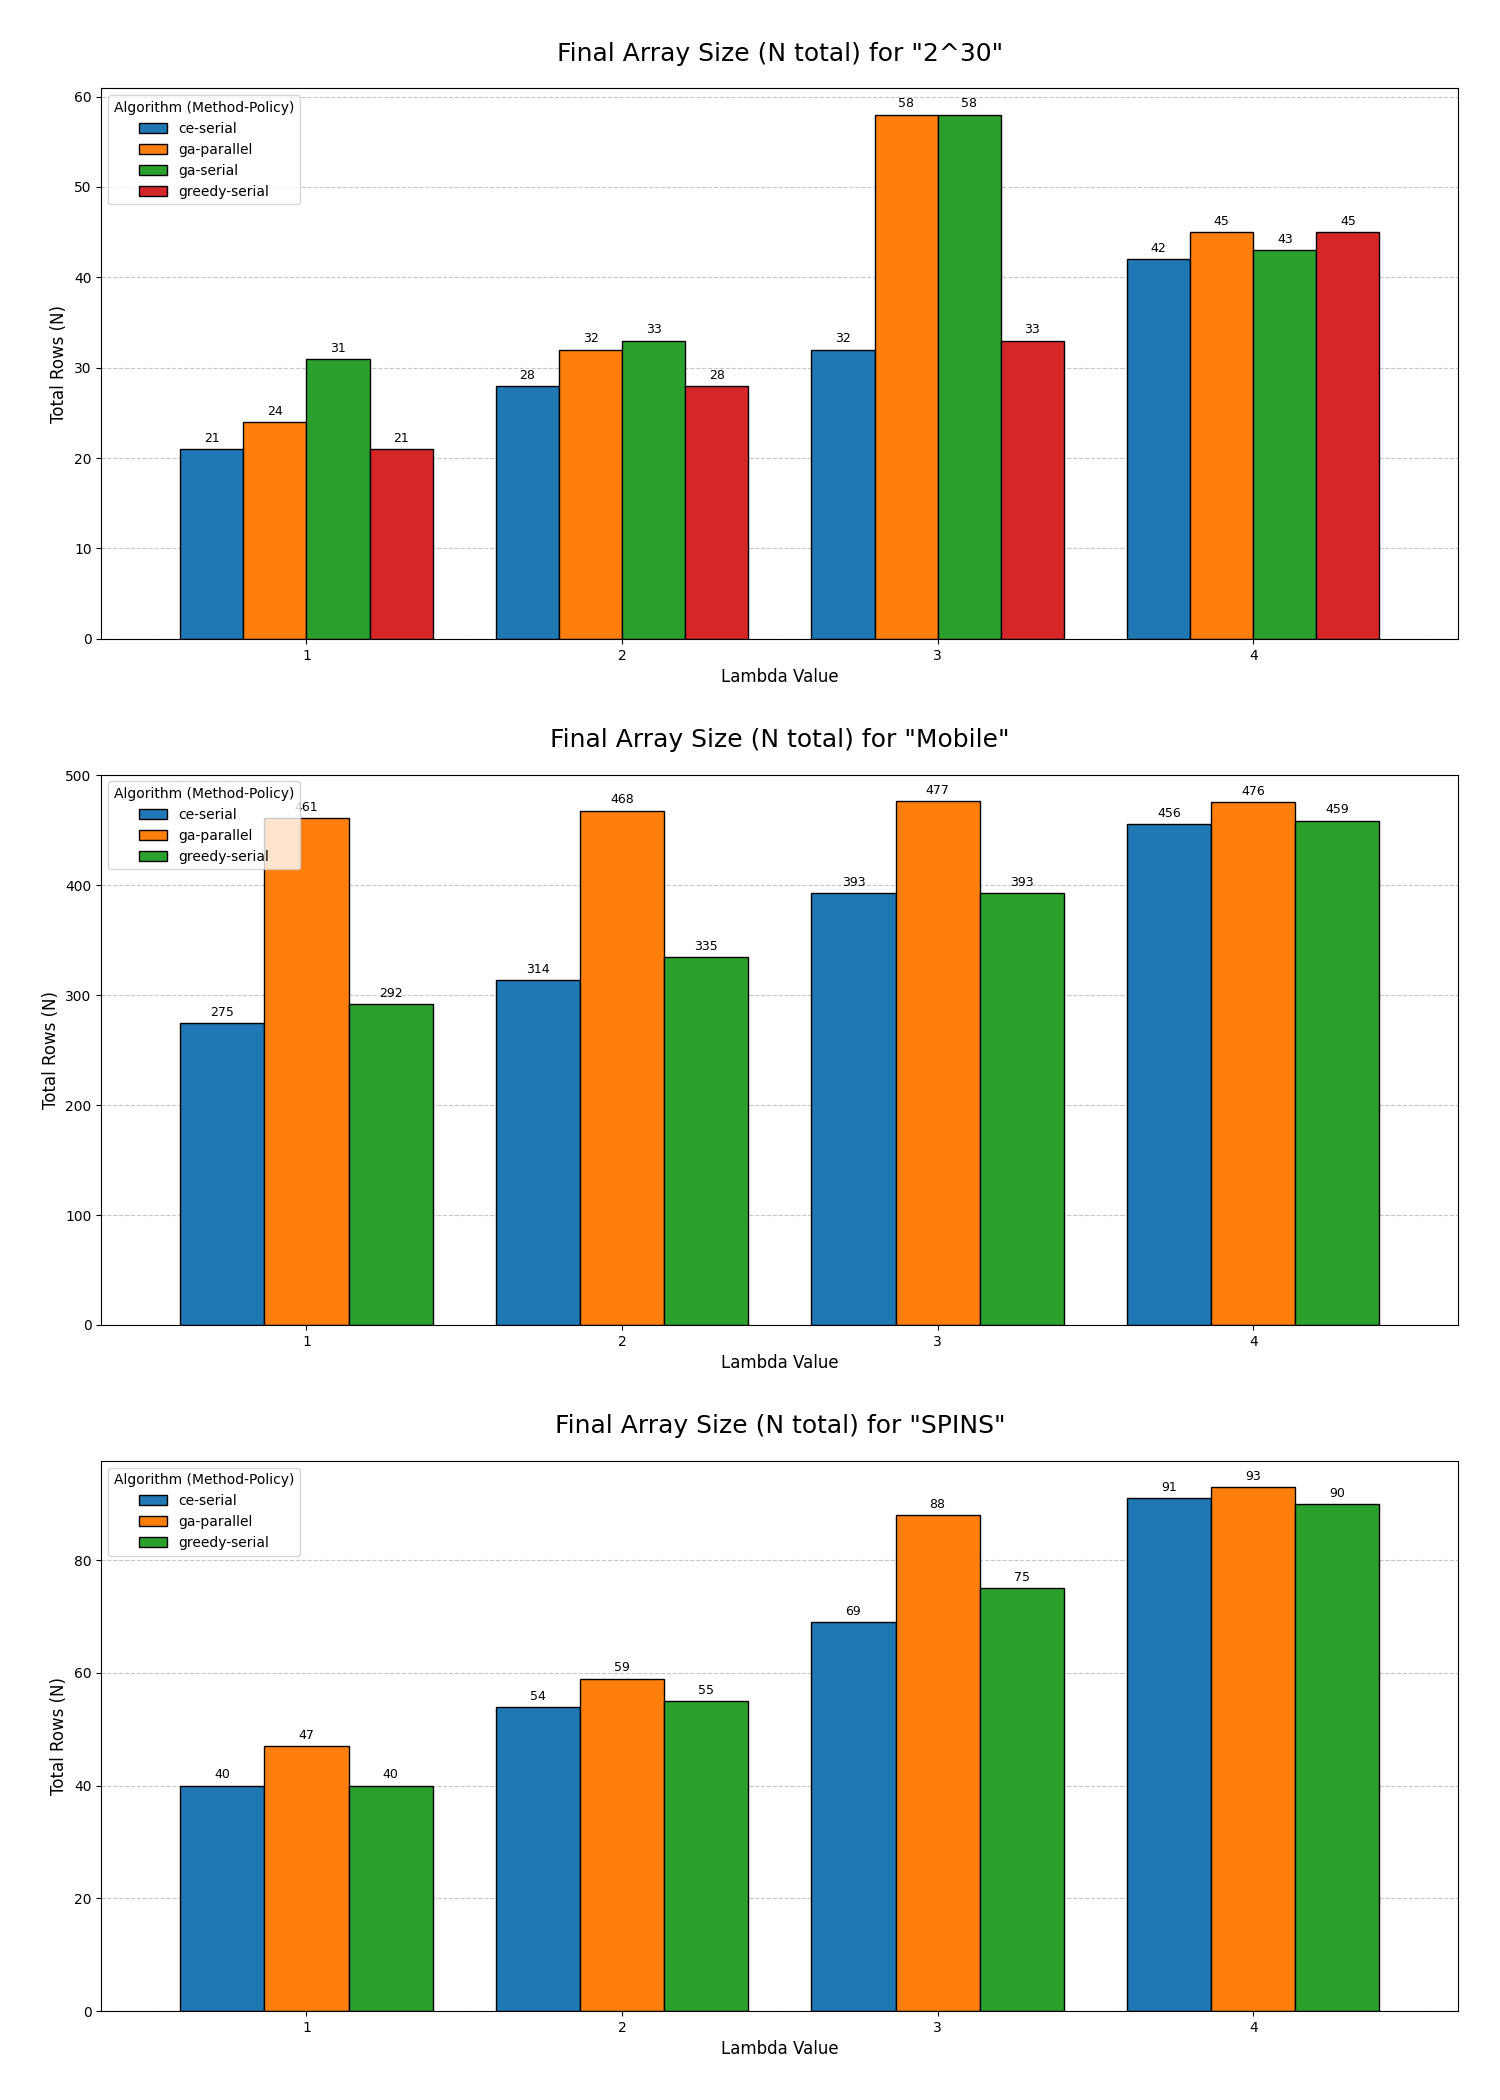
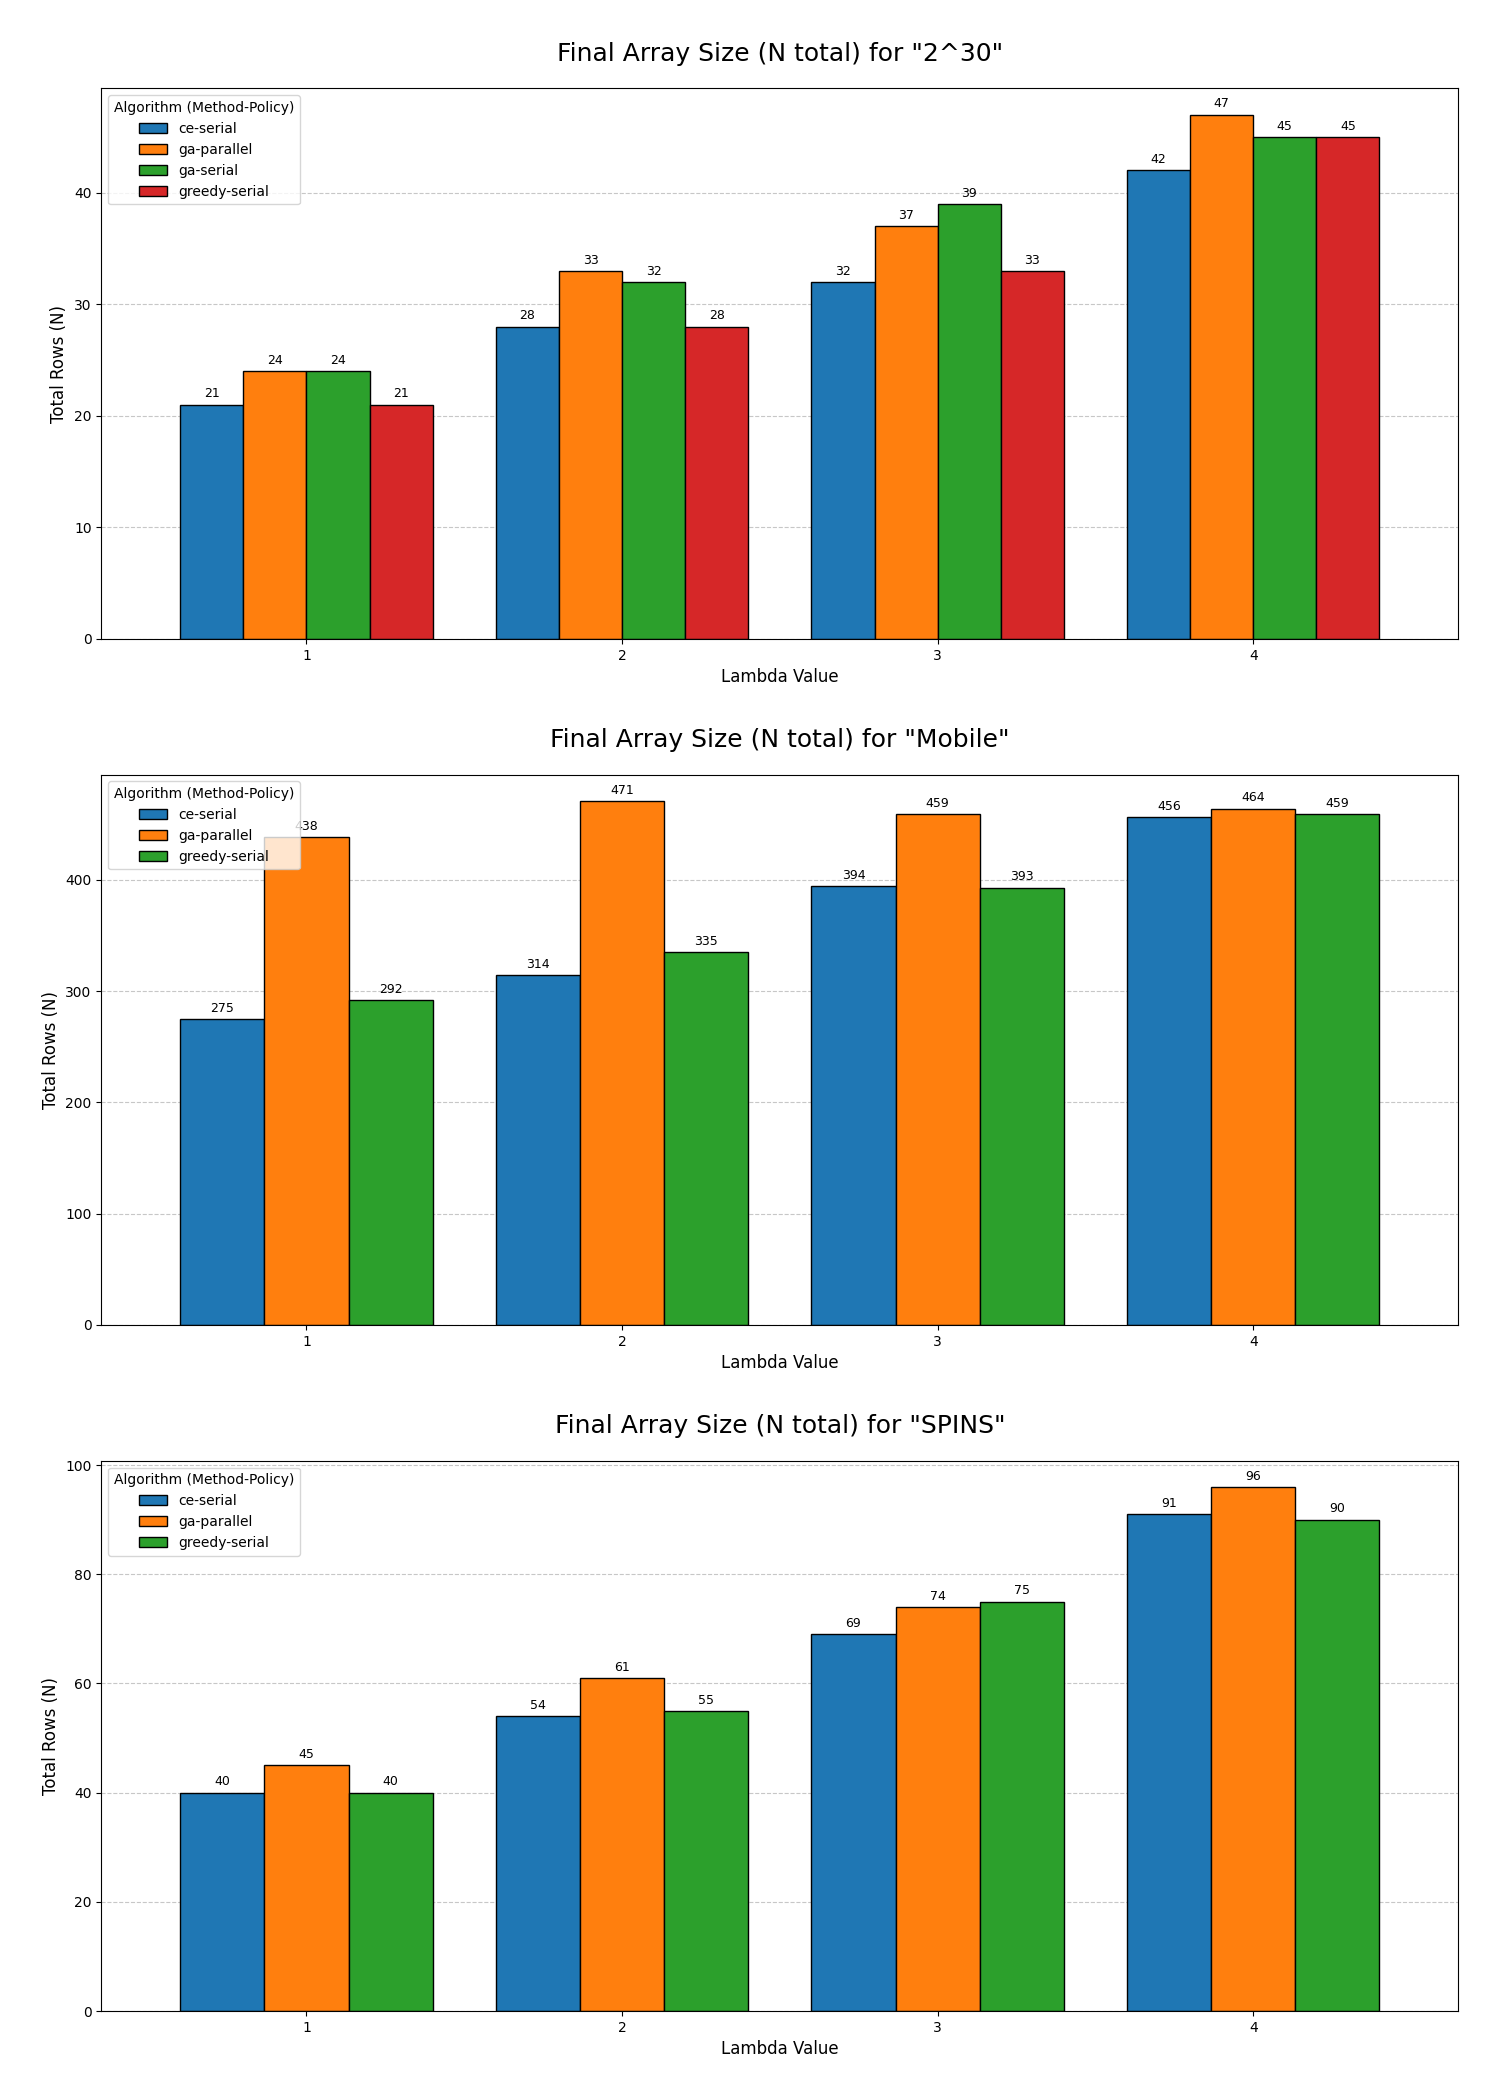
updated benchmarks

diff --git a/benchmark_table.tex b/benchmark_table.tex
@@ -6,12 +6,12 @@
  & RunType & ce (serial) & ga (parallel) & ga (serial) & greedy (serial) \\
 Config & ArrayType &  &  &  &  \\
 \midrule
-\multirow[t]{2}{*}{2^30} & detecting & - & 1582.80 & 4044.01 & - \\
- & locating & 0.43 & 297.49 & - & 0.27 \\
+\multirow[t]{2}{*}{2^30} & detecting & - & 1386.71 & 3690.08 & - \\
+ & locating & 0.92 & 285.74 & - & 0.26 \\
 \cline{1-6}
-Mobile & locating & 342.79 & 9928.70 & - & 286.47 \\
+Mobile & locating & 687.19 & 6820.74 & - & 288.83 \\
 \cline{1-6}
-SPINS & locating & 0.10 & 69.37 & - & 0.06 \\
+SPINS & locating & 0.21 & 68.83 & - & 0.05 \\
 \cline{1-6}
 \bottomrule
 \end{tabular}
